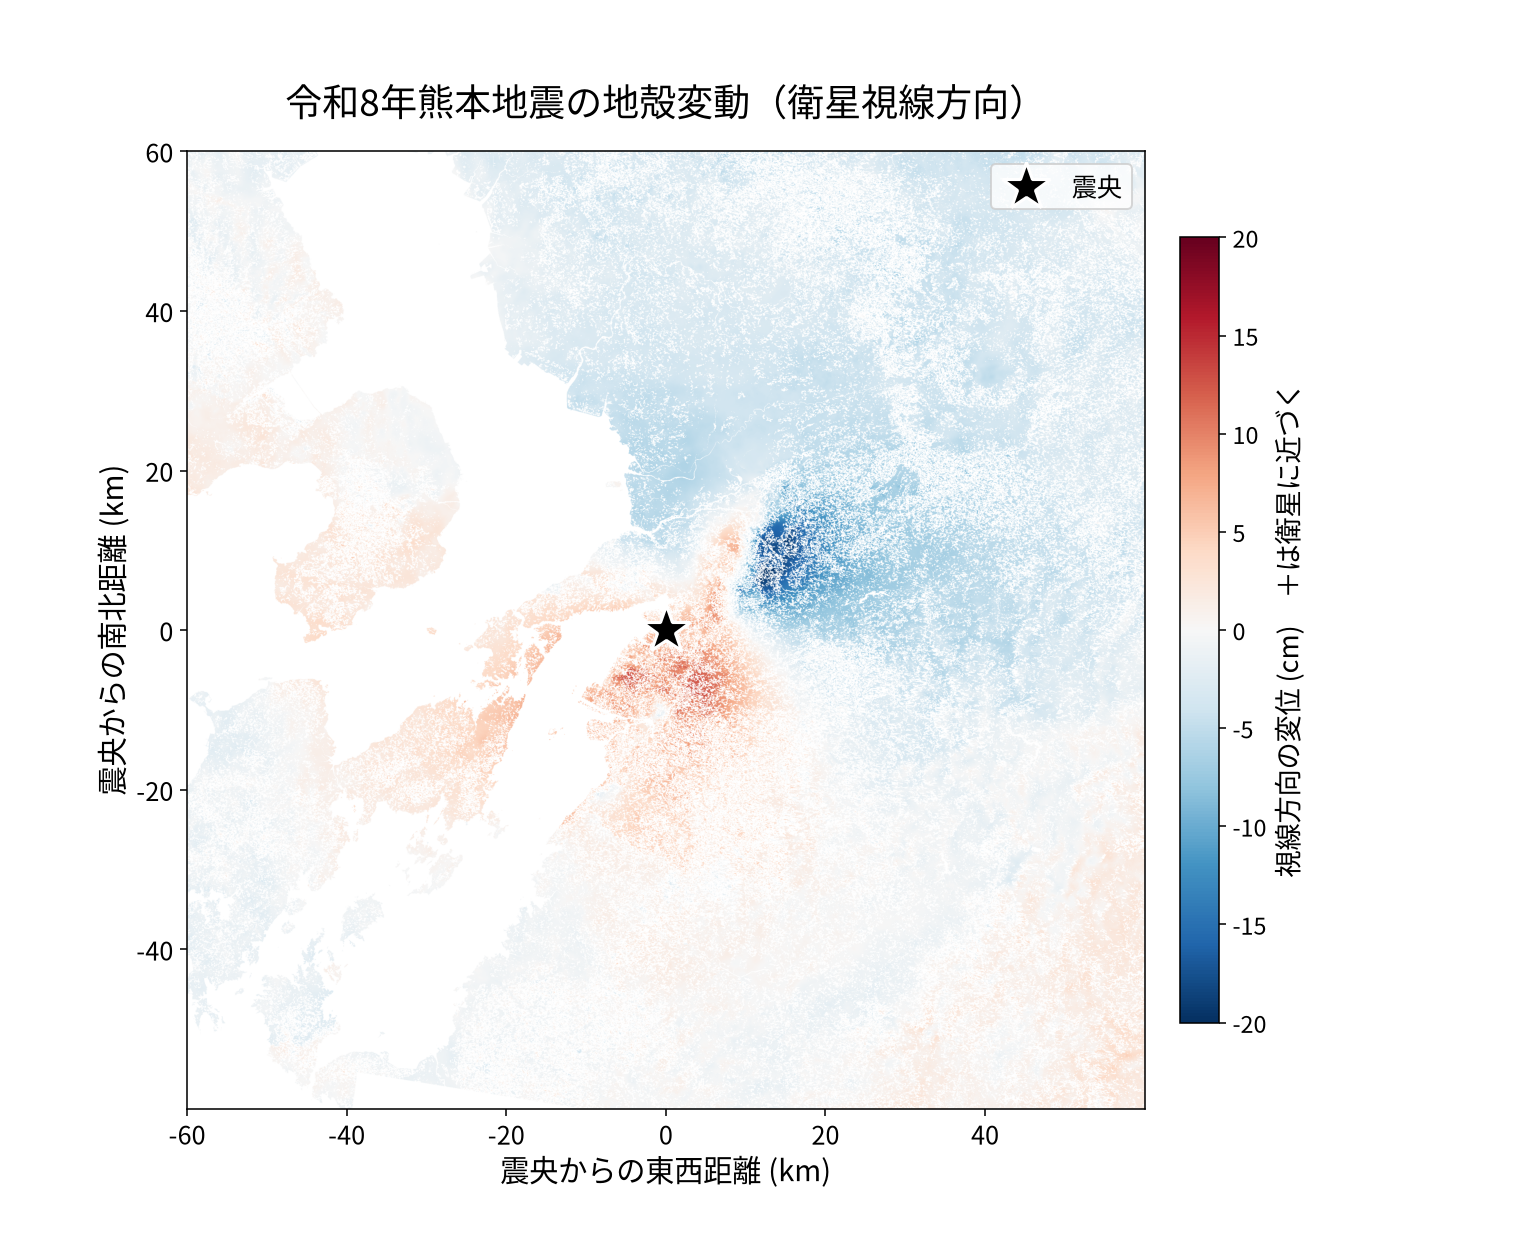
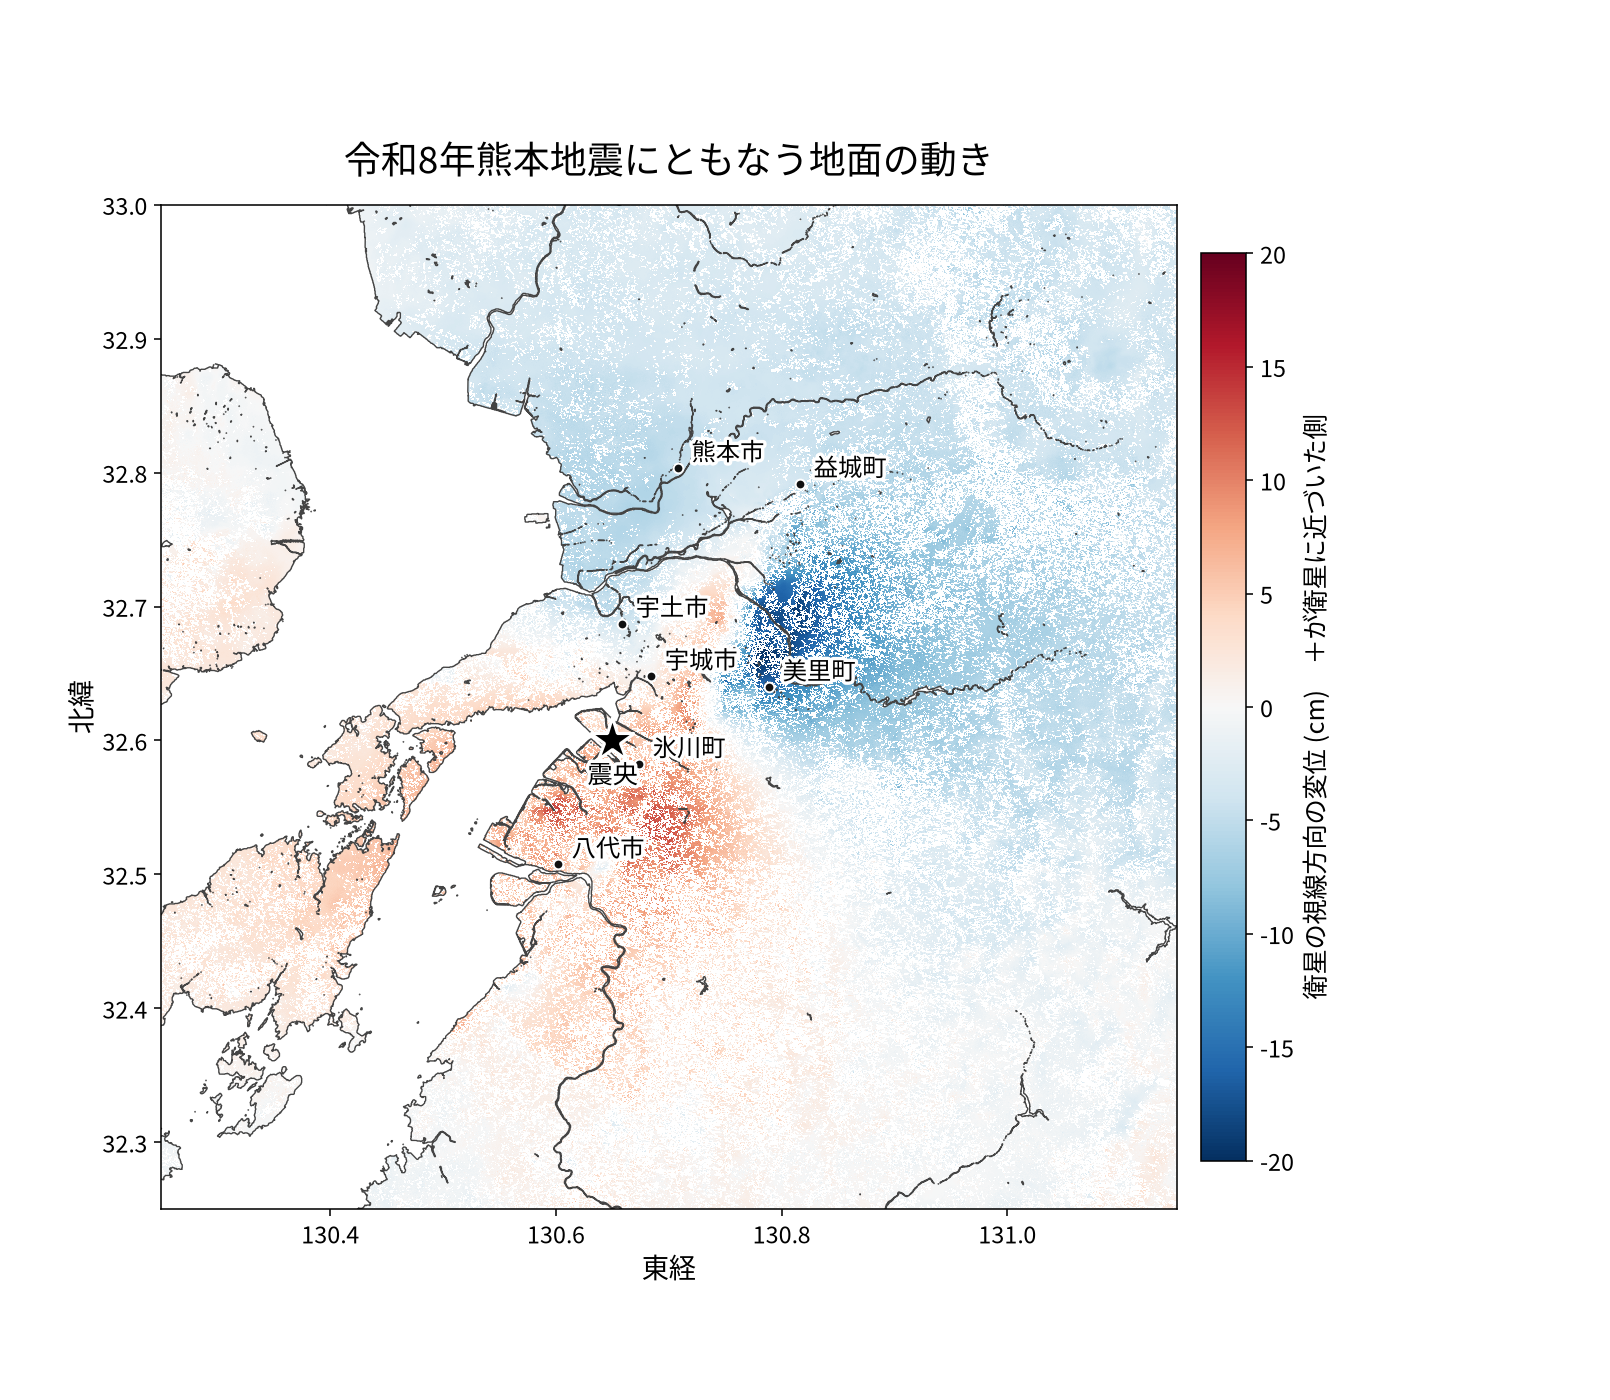
fix(research): make the Kumamoto InSAR figures readable as maps
The first pair of figures plotted distance from the epicentre on both axes
with no place names and no coastline, so a reader could not tell where the
signal was. Both are now drawn in geographic coordinates with the coastline
from the water mask and municipality markers placed from the GSI
address-search API.

The damage proxy is additionally aggregated to 1 km cells showing the
percentage of usable pixels that lost more than 0.3 coherence. Per-pixel
values were too sparse to read, and the cell percentage is directly
comparable to the 3-5 % far-field noise floor. Of 5,561 cells with enough
data, 289 exceed 30 % and 146 exceed 50 %, tracing Mashiki -> Uto -> Uki ->
Hikawa -> Yatsushiro.

No change to the underlying analysis or to the released GeoTIFF.

diff --git a/research/kumamoto2026_insar/figs.py b/research/kumamoto2026_insar/figs.py
@@ -2,17 +2,29 @@ import os, glob, numpy as np, rasterio, matplotlib
 matplotlib.use('Agg')
 import matplotlib.pyplot as plt
 from matplotlib import font_manager
+from matplotlib.patheffects import withStroke
 from rasterio.warp import transform as warp_transform
 
 INSAR_DIR = os.environ.get('INSAR_DIR', 'insar')
 
 for cand in ['Noto Sans CJK JP', 'Noto Serif CJK JP']:
     if any(f.name == cand for f in font_manager.fontManager.ttflist):
-        plt.rcParams['font.family'] = cand; break
+        plt.rcParams['font.family'] = cand
+        break
 plt.rcParams['axes.unicode_minus'] = False
 
-EPI_LAT, EPI_LON = 32.60, 130.65
-R = 60_000  # crop half-width (m)
+EPI = (130.65, 32.60)
+# 位置は国土地理院 住所検索 API (msearch.gsi.go.jp) で取得した役所・役場の座標
+CITIES = [
+    ('熊本市', 130.708054, 32.803333),
+    ('益城町', 130.816345, 32.791607),
+    ('宇土市', 130.658478, 32.687294),
+    ('美里町', 130.788895, 32.639721),
+    ('宇城市', 130.684357, 32.647846),
+    ('氷川町', 130.673615, 32.582500),
+    ('八代市', 130.601807, 32.507500),
+]
+LON0, LON1, LAT0, LAT1 = 130.25, 131.15, 32.25, 33.00
 
 cf = [x for x in glob.glob(INSAR_DIR + '/*/*_corr.tif') if '20260728' in x][0]
 pf = [x for x in glob.glob(INSAR_DIR + '/*/*_corr.tif') if '20260728' not in x][0]
@@ -20,7 +32,8 @@ lf = glob.glob(INSAR_DIR + '/*/*_los_disp.tif')[0]
 
 with rasterio.open(cf) as dc, rasterio.open(pf) as dp, rasterio.open(lf) as dl:
     rows, cols = min(dc.height, dp.height), min(dc.width, dp.width)
-    co = np.array(dc.read(1)[:rows, :cols]); pre = np.array(dp.read(1)[:rows, :cols])
+    co = np.array(dc.read(1)[:rows, :cols])
+    pre = np.array(dp.read(1)[:rows, :cols])
     los = np.array(dl.read(1)[:rows, :cols])
     tf, crs = dc.transform, dc.crs
 
@@ -29,38 +42,85 @@ for w in sorted(glob.glob(INSAR_DIR + '/*/*_water_mask.tif')):
     with rasterio.open(w) as dw:
         water |= (np.array(dw.read(1)[:rows, :cols]) == 0)
 
-ex, ey = warp_transform('EPSG:4326', crs, [EPI_LON], [EPI_LAT])
-ex, ey = ex[0], ey[0]
-c0 = int((ex - R - tf.c) / tf.a); c1 = int((ex + R - tf.c) / tf.a)
-r0 = int((ey + R - tf.f) / tf.e); r1 = int((ey - R - tf.f) / tf.e)
-c0, c1 = max(c0, 0), min(c1, cols); r0, r1 = max(r0, 0), min(r1, rows)
+# crop to the lat/lon box
+xs, ys = warp_transform('EPSG:4326', crs, [LON0, LON1, LON0, LON1], [LAT0, LAT0, LAT1, LAT1])
+c0 = max(int((min(xs) - tf.c) / tf.a), 0)
+c1 = min(int((max(xs) - tf.c) / tf.a), cols)
+r0 = max(int((max(ys) - tf.f) / tf.e), 0)
+r1 = min(int((min(ys) - tf.f) / tf.e), rows)
 sl = (slice(r0, r1), slice(c0, c1))
-ext = [(tf.c + c0*tf.a - ex)/1000, (tf.c + c1*tf.a - ex)/1000,
-       (tf.f + r1*tf.e - ey)/1000, (tf.f + r0*tf.e - ey)/1000]
+H, W = r1 - r0, c1 - c0
 
-okc = (pre[sl] >= 0.3) & (co[sl] > 0) & (~water[sl])
-dcoh = np.where(okc, pre[sl] - co[sl], np.nan)
-losm = np.where((co[sl] >= 0.3) & (los[sl] != 0) & (~water[sl]), los[sl]*100, np.nan)
+# per-pixel lon/lat of the crop (for pcolormesh: true geographic placement)
+rr, cc = np.mgrid[r0:r1 + 1, c0:c1 + 1]
+X = tf.c + cc * tf.a
+Y = tf.f + rr * tf.e
+LON, LAT = warp_transform(crs, 'EPSG:4326', X.ravel(), Y.ravel())
+LON = np.array(LON).reshape(X.shape)
+LAT = np.array(LAT).reshape(X.shape)
 
-# --- Fig 1: LOS displacement ---
-fig, ax = plt.subplots(figsize=(11, 9)); fig.subplots_adjust(left=.12, right=.88, top=.88, bottom=.12)
-im = ax.imshow(losm, extent=ext, cmap='RdBu_r', vmin=-20, vmax=20, origin='upper')
-ax.plot(0, 0, marker='*', ms=26, color='k', mec='w', mew=1.6, ls='none', label='震央')
-ax.set_title('令和8年熊本地震の地殻変動（衛星視線方向）', fontsize=19, pad=18)
-ax.set_xlabel('震央からの東西距離 (km)', fontsize=15); ax.set_ylabel('震央からの南北距離 (km)', fontsize=15)
-ax.tick_params(labelsize=13); ax.legend(fontsize=13, loc='upper right')
-cb = fig.colorbar(im, ax=ax, shrink=.82, pad=.03); cb.set_label('視線方向の変位 (cm)　＋は衛星に近づく', fontsize=14)
+wat = water[sl]
+okc = (pre[sl] >= 0.3) & (co[sl] > 0) & (~wat)
+dcoh = pre[sl] - co[sl]
+losm = np.where((co[sl] >= 0.3) & (los[sl] != 0) & (~wat), los[sl] * 100, np.nan)
+
+
+def decorate(ax, title):
+    # coastline: boundary of the water mask
+    ax.contour(LON[:-1, :-1], LAT[:-1, :-1], wat.astype(float), levels=[0.5],
+               colors='#444444', linewidths=0.7)
+    ax.plot(*EPI, marker='*', ms=24, color='k', mec='w', mew=1.6, ls='none', zorder=6)
+    ax.annotate('震央', EPI, textcoords='offset points', xytext=(0, -22), ha='center',
+                fontsize=13, zorder=7,
+                path_effects=[withStroke(linewidth=3.5, foreground='white')])
+    for name, lo, la in CITIES:
+        ax.plot(lo, la, 'o', ms=5, color='#111111', mec='w', mew=1.0, zorder=6)
+        ax.annotate(name, (lo, la), textcoords='offset points', xytext=(7, 4),
+                    fontsize=12.5, zorder=7,
+                    path_effects=[withStroke(linewidth=3.5, foreground='white')])
+    ax.set_xlim(LON0, LON1)
+    ax.set_ylim(LAT0, LAT1)
+    ax.set_aspect(1 / np.cos(np.deg2rad(32.6)))
+    ax.set_title(title, fontsize=19, pad=16)
+    ax.set_xlabel('東経', fontsize=14)
+    ax.set_ylabel('北緯', fontsize=14)
+    ax.tick_params(labelsize=12)
+
+
+# --- Fig 1: deformation ---
+fig, ax = plt.subplots(figsize=(11.5, 10))
+fig.subplots_adjust(left=.10, right=.86, top=.90, bottom=.09)
+m = ax.pcolormesh(LON, LAT, np.ma.masked_invalid(losm), cmap='RdBu_r',
+                  vmin=-20, vmax=20, shading='flat', rasterized=True)
+decorate(ax, '令和8年熊本地震にともなう地面の動き')
+cb = fig.colorbar(m, ax=ax, shrink=.80, pad=.02)
+cb.set_label('衛星の視線方向の変位 (cm)　＋が衛星に近づいた側', fontsize=13)
 cb.ax.tick_params(labelsize=12)
-fig.savefig(INSAR_DIR + '/fig1_los.png', dpi=140); plt.close(fig)
+fig.savefig(INSAR_DIR + '/fig1_los.png', dpi=140)
+plt.close(fig)
 
-# --- Fig 2: damage proxy ---
-fig, ax = plt.subplots(figsize=(11, 9)); fig.subplots_adjust(left=.12, right=.88, top=.88, bottom=.12)
-im = ax.imshow(np.where(dcoh > 0.3, dcoh, np.nan), extent=ext, cmap='YlOrRd', vmin=0.3, vmax=0.8, origin='upper')
-ax.plot(0, 0, marker='*', ms=26, color='k', mec='w', mew=1.6, ls='none', label='震央')
-ax.set_title('地震をまたいで地表が変化した場所', fontsize=19, pad=18)
-ax.set_xlabel('震央からの東西距離 (km)', fontsize=15); ax.set_ylabel('震央からの南北距離 (km)', fontsize=15)
-ax.tick_params(labelsize=13); ax.legend(fontsize=13, loc='upper right')
-cb = fig.colorbar(im, ax=ax, shrink=.82, pad=.03); cb.set_label('干渉性の低下量', fontsize=14); cb.ax.tick_params(labelsize=12)
-fig.savefig(INSAR_DIR + '/fig2_damage.png', dpi=140); plt.close(fig)
-print('figs written')
-print('crop rows %d-%d cols %d-%d  extent(km) %s' % (r0, r1, c0, c1, [round(v,1) for v in ext]))
+# --- Fig 2: damage proxy aggregated to ~1 km cells ---
+K = 25  # 25 x 40 m = 1 km
+hh, ww = (H // K) * K, (W // K) * K
+hit = ((dcoh > 0.3) & okc)[:hh, :ww].reshape(hh // K, K, ww // K, K).sum(axis=(1, 3))
+tot = okc[:hh, :ww].reshape(hh // K, K, ww // K, K).sum(axis=(1, 3))
+frac = np.where(tot >= 80, 100.0 * hit / np.maximum(tot, 1), np.nan)
+LONc = LON[:hh + 1:K, :ww + 1:K]
+LATc = LAT[:hh + 1:K, :ww + 1:K]
+
+fig, ax = plt.subplots(figsize=(11.5, 10))
+fig.subplots_adjust(left=.10, right=.86, top=.90, bottom=.09)
+m = ax.pcolormesh(LONc, LATc, np.ma.masked_invalid(frac), cmap='YlOrRd',
+                  vmin=5, vmax=70, shading='flat', rasterized=True)
+decorate(ax, '地震をまたいで地表が変わった度合い（1km ごと）')
+cb = fig.colorbar(m, ax=ax, shrink=.80, pad=.02)
+cb.set_label('変化した画素の割合 (%)　地震と無関係な場所では 3〜5%', fontsize=13)
+cb.ax.tick_params(labelsize=12)
+fig.savefig(INSAR_DIR + '/fig2_damage.png', dpi=140)
+plt.close(fig)
+
+good = np.isfinite(frac)
+print('1km cells with enough data: %d' % good.sum())
+print('cells >=30%%: %d   >=50%%: %d   max %.1f%%' % (
+    (frac[good] >= 30).sum(), (frac[good] >= 50).sum(), frac[good].max()))
+print('figs v2 written')

diff --git a/research/kumamoto2026_insar/README.md b/research/kumamoto2026_insar/README.md
@@ -70,9 +70,23 @@ what exposes the signal, and the far field then serves as the measured noise flo
 
 Noise floor (>30 km): 2.6–4.7 % of pixels exceed 0.3. Within 10 km: 40.3 %, about ten times that.
 
+Both figures are drawn in geographic coordinates with the coastline taken from the HyP3 water mask.
+Municipality markers use office coordinates from the GSI address-search API
+(`msearch.gsi.go.jp/address-search/AddressSearch`).
+
 ![LOS displacement](fig1_los.png)
 
+The sign reverses across the epicentre: away from the satellite to the NE (Misato, Mashiki), toward
+it to the SW (Hikawa, Yatsushiro).
+
 ![Coherence-change damage proxy](fig2_damage.png)
+
+Aggregated to 1 km cells, each showing the percentage of usable pixels whose coherence dropped by
+more than 0.3; cells with fewer than 80 usable pixels are left blank. Per-pixel values are too
+sparse to read as a map, and the cell percentage is directly comparable to the 3–5 % noise floor
+measured in the far field. Of 5,561 cells with enough data, 289 exceed 30 % and 146 exceed 50 %.
+The affected cells trace Mashiki -> Uto -> Uki -> Hikawa -> Yatsushiro, with the densest values over
+built-up Yatsushiro.
 
 ## What this is not
 
